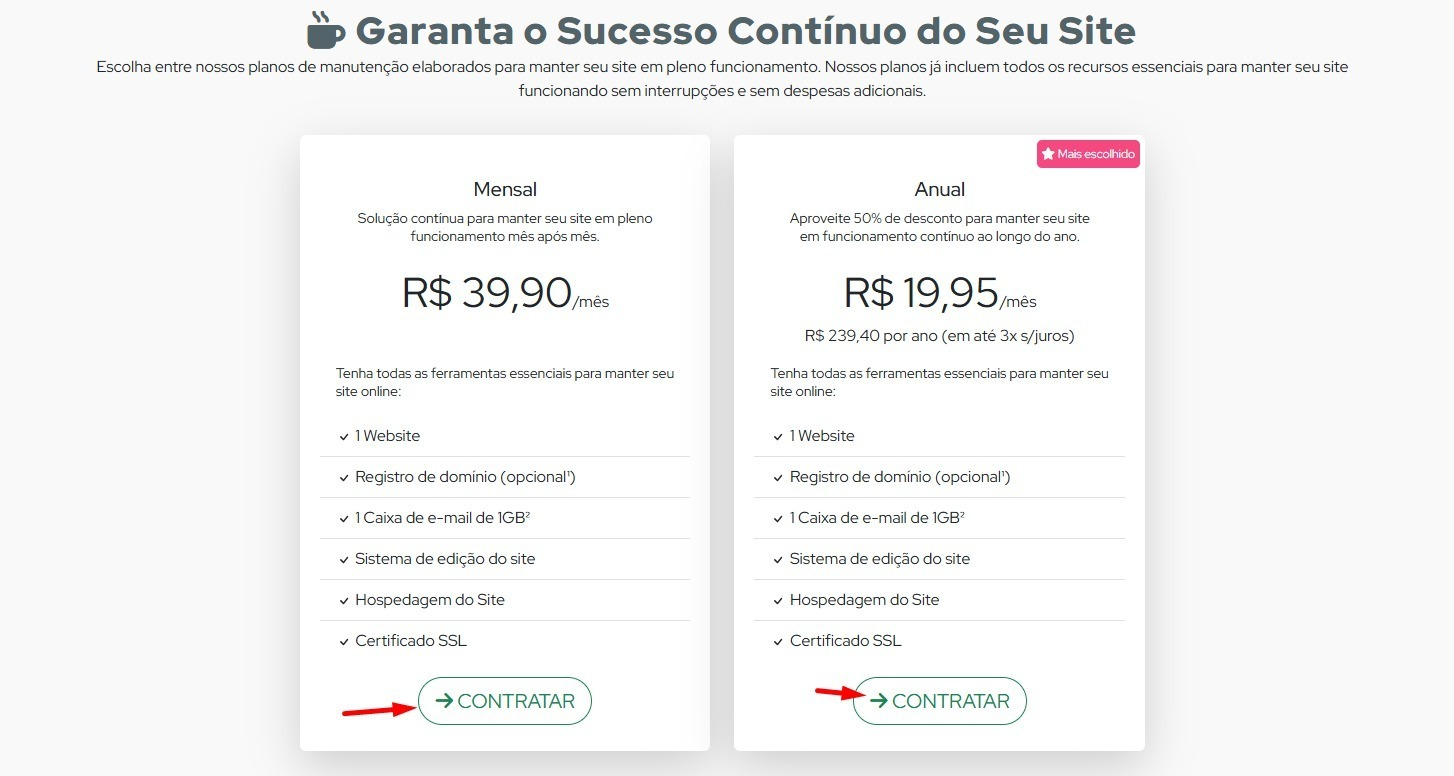
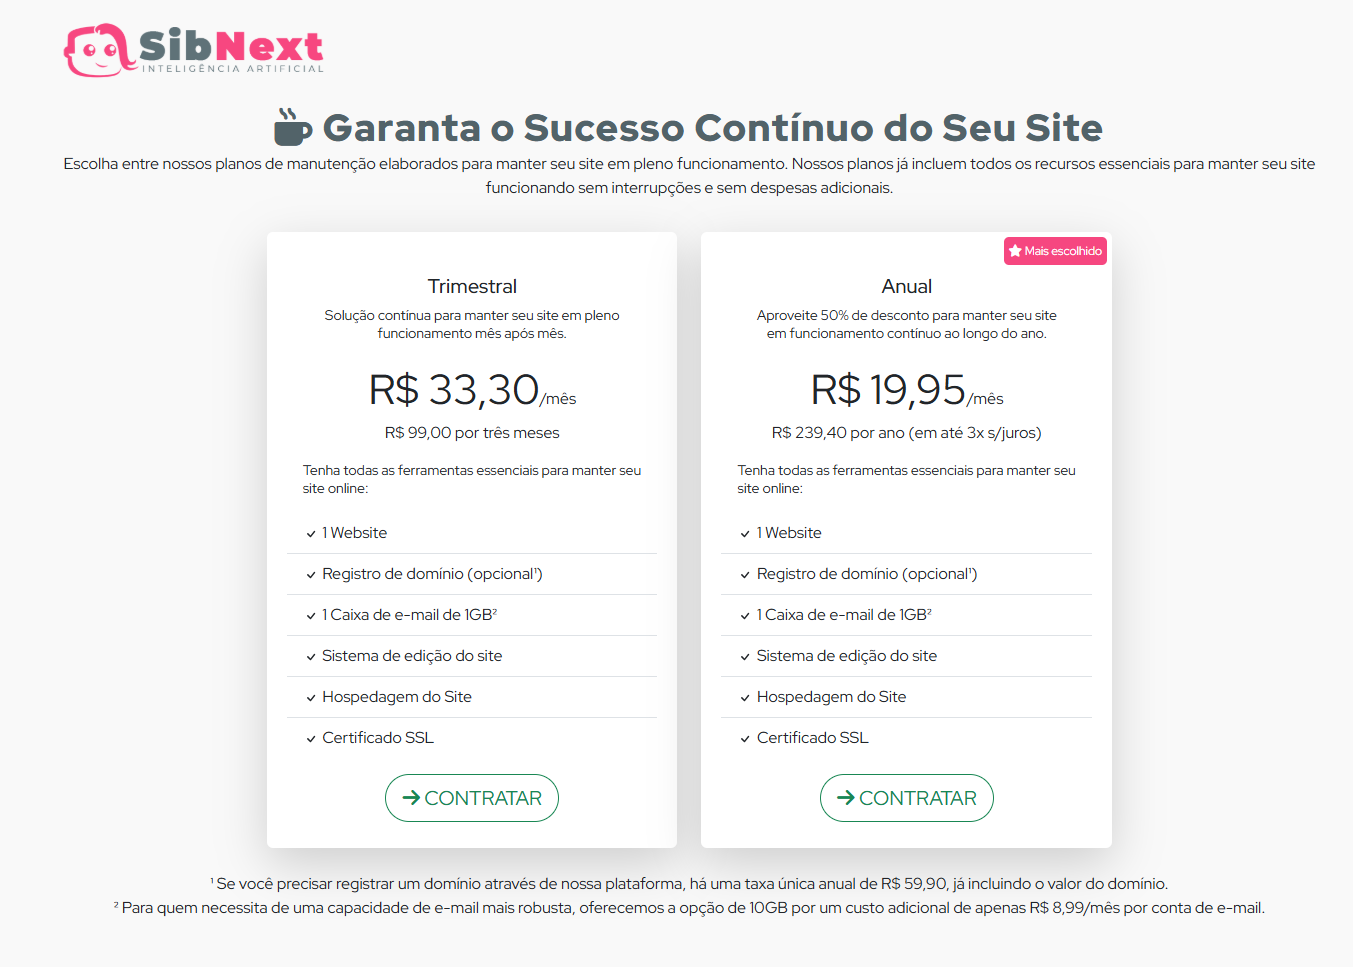
nova mensagem de -Planos | nova imagem de planos

diff --git a/pages/mensagem.html b/pages/mensagem.html
@@ -44,25 +44,108 @@
             Outros <i class="fa-solid fa-angle-right"></i>
           </button>
 
-          <div class="dropdown" style="border-top: 1px solid #02df8338; padding-top: 8px;">
+          <div
+            class="dropdown"
+            style="border-top: 1px solid #02df8338; padding-top: 8px"
+          >
             <button class="dropbtn menu-button">
               Acesso Rápido <i class="fa-solid fa-chevron-down"></i>
             </button>
             <div class="dropdown-content">
-              <a href="/pages/comandos.html">Comandos
-                <svg style="margin-left: 5px;" width="18px" height="18px" viewBox="0 0 24 24" fill="none" xmlns="http://www.w3.org/2000/svg"> <path d="M6.34277 17.6568L16.9494 7.05025M17.6565 13.4142L17.6565 6.34314H10.5854" stroke="currentColor" stroke-width="2" stroke-linecap="round" stroke-linejoin="round"/> </svg>
+              <a href="/pages/comandos.html"
+                >Comandos
+                <svg
+                  style="margin-left: 5px"
+                  width="18px"
+                  height="18px"
+                  viewBox="0 0 24 24"
+                  fill="none"
+                  xmlns="http://www.w3.org/2000/svg"
+                >
+                  <path
+                    d="M6.34277 17.6568L16.9494 7.05025M17.6565 13.4142L17.6565 6.34314H10.5854"
+                    stroke="currentColor"
+                    stroke-width="2"
+                    stroke-linecap="round"
+                    stroke-linejoin="round"
+                  />
+                </svg>
               </a>
-              <a href="/pages/tutoriais.html">Tutoriais
-                <svg style="margin-left: 5px;" width="18px" height="18px" viewBox="0 0 24 24" fill="none" xmlns="http://www.w3.org/2000/svg"> <path d="M6.34277 17.6568L16.9494 7.05025M17.6565 13.4142L17.6565 6.34314H10.5854" stroke="currentColor" stroke-width="2" stroke-linecap="round" stroke-linejoin="round"/> </svg>
+              <a href="/pages/tutoriais.html"
+                >Tutoriais
+                <svg
+                  style="margin-left: 5px"
+                  width="18px"
+                  height="18px"
+                  viewBox="0 0 24 24"
+                  fill="none"
+                  xmlns="http://www.w3.org/2000/svg"
+                >
+                  <path
+                    d="M6.34277 17.6568L16.9494 7.05025M17.6565 13.4142L17.6565 6.34314H10.5854"
+                    stroke="currentColor"
+                    stroke-width="2"
+                    stroke-linecap="round"
+                    stroke-linejoin="round"
+                  />
+                </svg>
               </a>
-              <a href="/pages/dns.html">Apontamento DNS
-                <svg style="margin-left: 5px;" width="18px" height="18px" viewBox="0 0 24 24" fill="none" xmlns="http://www.w3.org/2000/svg"> <path d="M6.34277 17.6568L16.9494 7.05025M17.6565 13.4142L17.6565 6.34314H10.5854" stroke="currentColor" stroke-width="2" stroke-linecap="round" stroke-linejoin="round"/> </svg>
+              <a href="/pages/dns.html"
+                >Apontamento DNS
+                <svg
+                  style="margin-left: 5px"
+                  width="18px"
+                  height="18px"
+                  viewBox="0 0 24 24"
+                  fill="none"
+                  xmlns="http://www.w3.org/2000/svg"
+                >
+                  <path
+                    d="M6.34277 17.6568L16.9494 7.05025M17.6565 13.4142L17.6565 6.34314H10.5854"
+                    stroke="currentColor"
+                    stroke-width="2"
+                    stroke-linecap="round"
+                    stroke-linejoin="round"
+                  />
+                </svg>
               </a>
-              <a href="/pages/links.html">Links
-                <svg style="margin-left: 5px;" width="18px" height="18px" viewBox="0 0 24 24" fill="none" xmlns="http://www.w3.org/2000/svg"> <path d="M6.34277 17.6568L16.9494 7.05025M17.6565 13.4142L17.6565 6.34314H10.5854" stroke="currentColor" stroke-width="2" stroke-linecap="round" stroke-linejoin="round"/> </svg>
+              <a href="/pages/links.html"
+                >Links
+                <svg
+                  style="margin-left: 5px"
+                  width="18px"
+                  height="18px"
+                  viewBox="0 0 24 24"
+                  fill="none"
+                  xmlns="http://www.w3.org/2000/svg"
+                >
+                  <path
+                    d="M6.34277 17.6568L16.9494 7.05025M17.6565 13.4142L17.6565 6.34314H10.5854"
+                    stroke="currentColor"
+                    stroke-width="2"
+                    stroke-linecap="round"
+                    stroke-linejoin="round"
+                  />
+                </svg>
               </a>
-              <a href="/pages/assets.html">Assets
-                <svg style="margin-left: 5px;" width="18px" height="18px" viewBox="0 0 24 24" fill="none" xmlns="http://www.w3.org/2000/svg"> <path d="M6.34277 17.6568L16.9494 7.05025M17.6565 13.4142L17.6565 6.34314H10.5854" stroke="currentColor" stroke-width="2" stroke-linecap="round" stroke-linejoin="round"/> </svg>
+              <a href="/pages/assets.html"
+                >Assets
+                <svg
+                  style="margin-left: 5px"
+                  width="18px"
+                  height="18px"
+                  viewBox="0 0 24 24"
+                  fill="none"
+                  xmlns="http://www.w3.org/2000/svg"
+                >
+                  <path
+                    d="M6.34277 17.6568L16.9494 7.05025M17.6565 13.4142L17.6565 6.34314H10.5854"
+                    stroke="currentColor"
+                    stroke-width="2"
+                    stroke-linecap="round"
+                    stroke-linejoin="round"
+                  />
+                </svg>
               </a>
             </div>
           </div>
@@ -210,6 +293,19 @@
               Nós não desenvolvemos as imagens ou os textos para o site.<br />
               A criação do conteúdo (visual e textual) fica em sua
               responsabilidade.
+            </p>
+          </div>
+
+          <div class="message-display">
+            <span class="tagName">Planos</span><br />
+            <p>
+              Certo, verifiquei em sua contratação e o seu plano antigo estava
+              na modalidade [---].<br />Porém, não temos mais esse plano. Agora, nós
+              trabalhamos apenas com o plano trimestral e anual, mas sai mais em
+              conta do que o plano mensal.<br /><br /> - Plano Trimestral - Possui um custo
+              de R$99,90 a cada três meses. (Sai à R$33,30 por mês)<br /> - Plano
+              anual - Possui um custo de R$239,40 por ano.<br /><br /> Qual dos planos você
+              prefere?
             </p>
           </div>
         </div>
